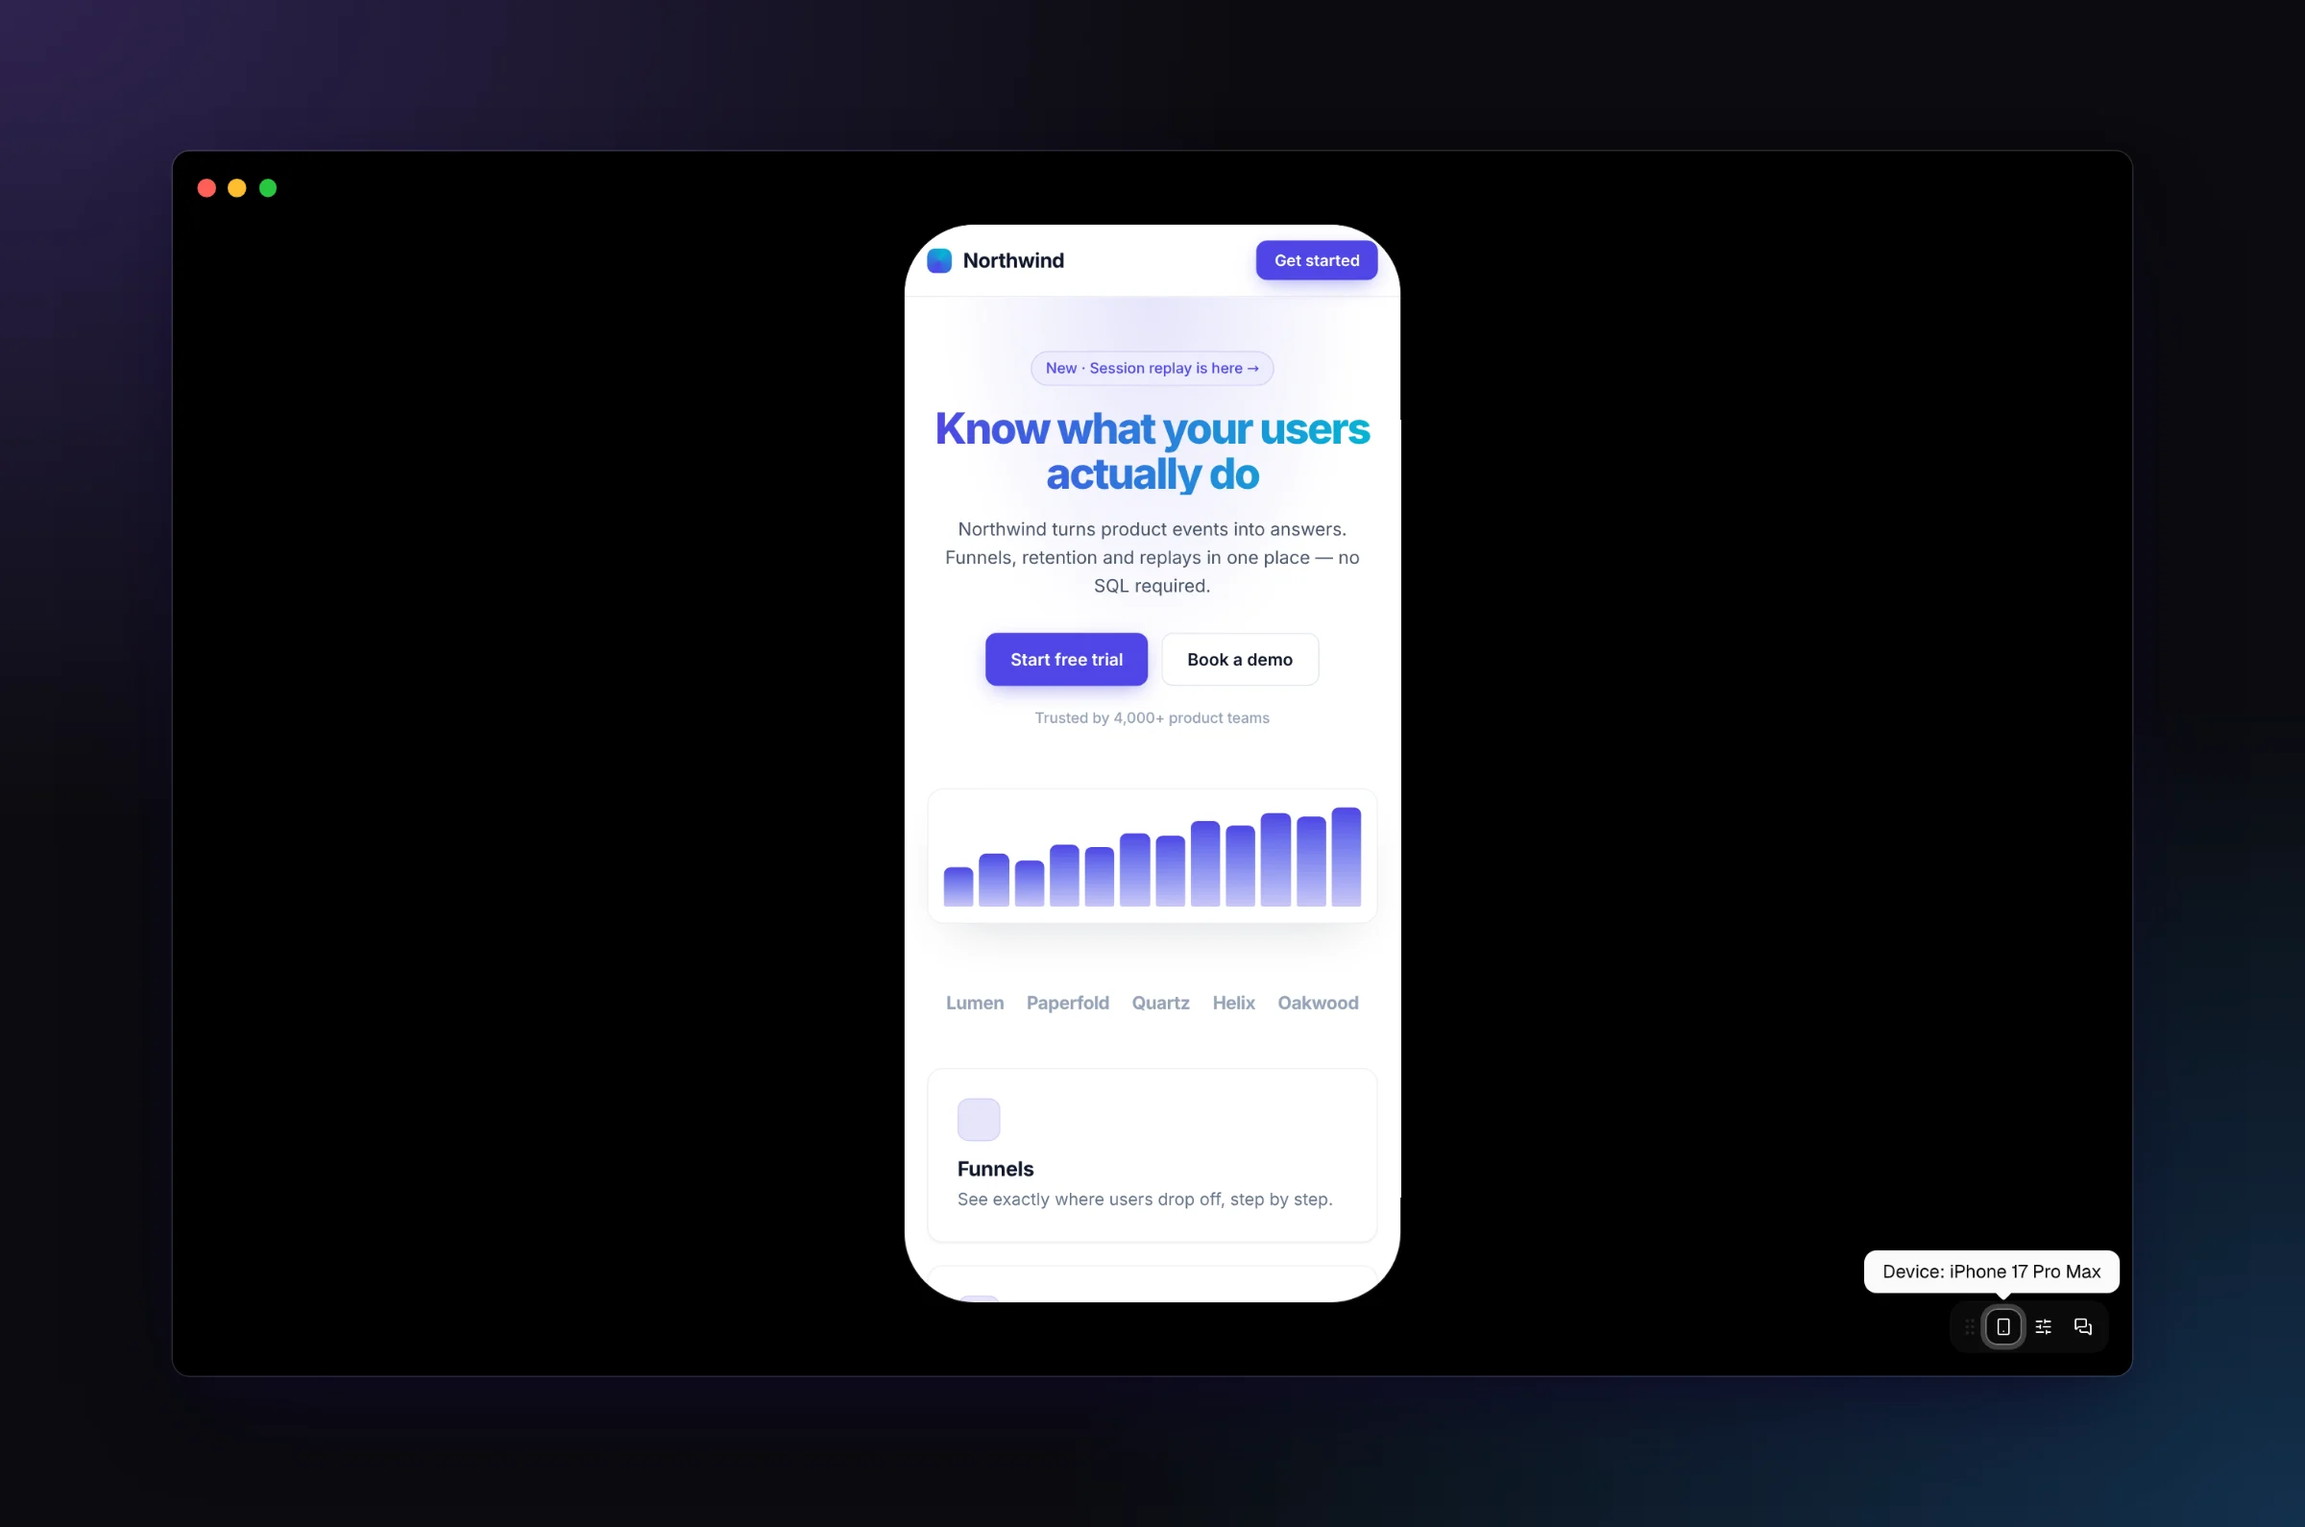
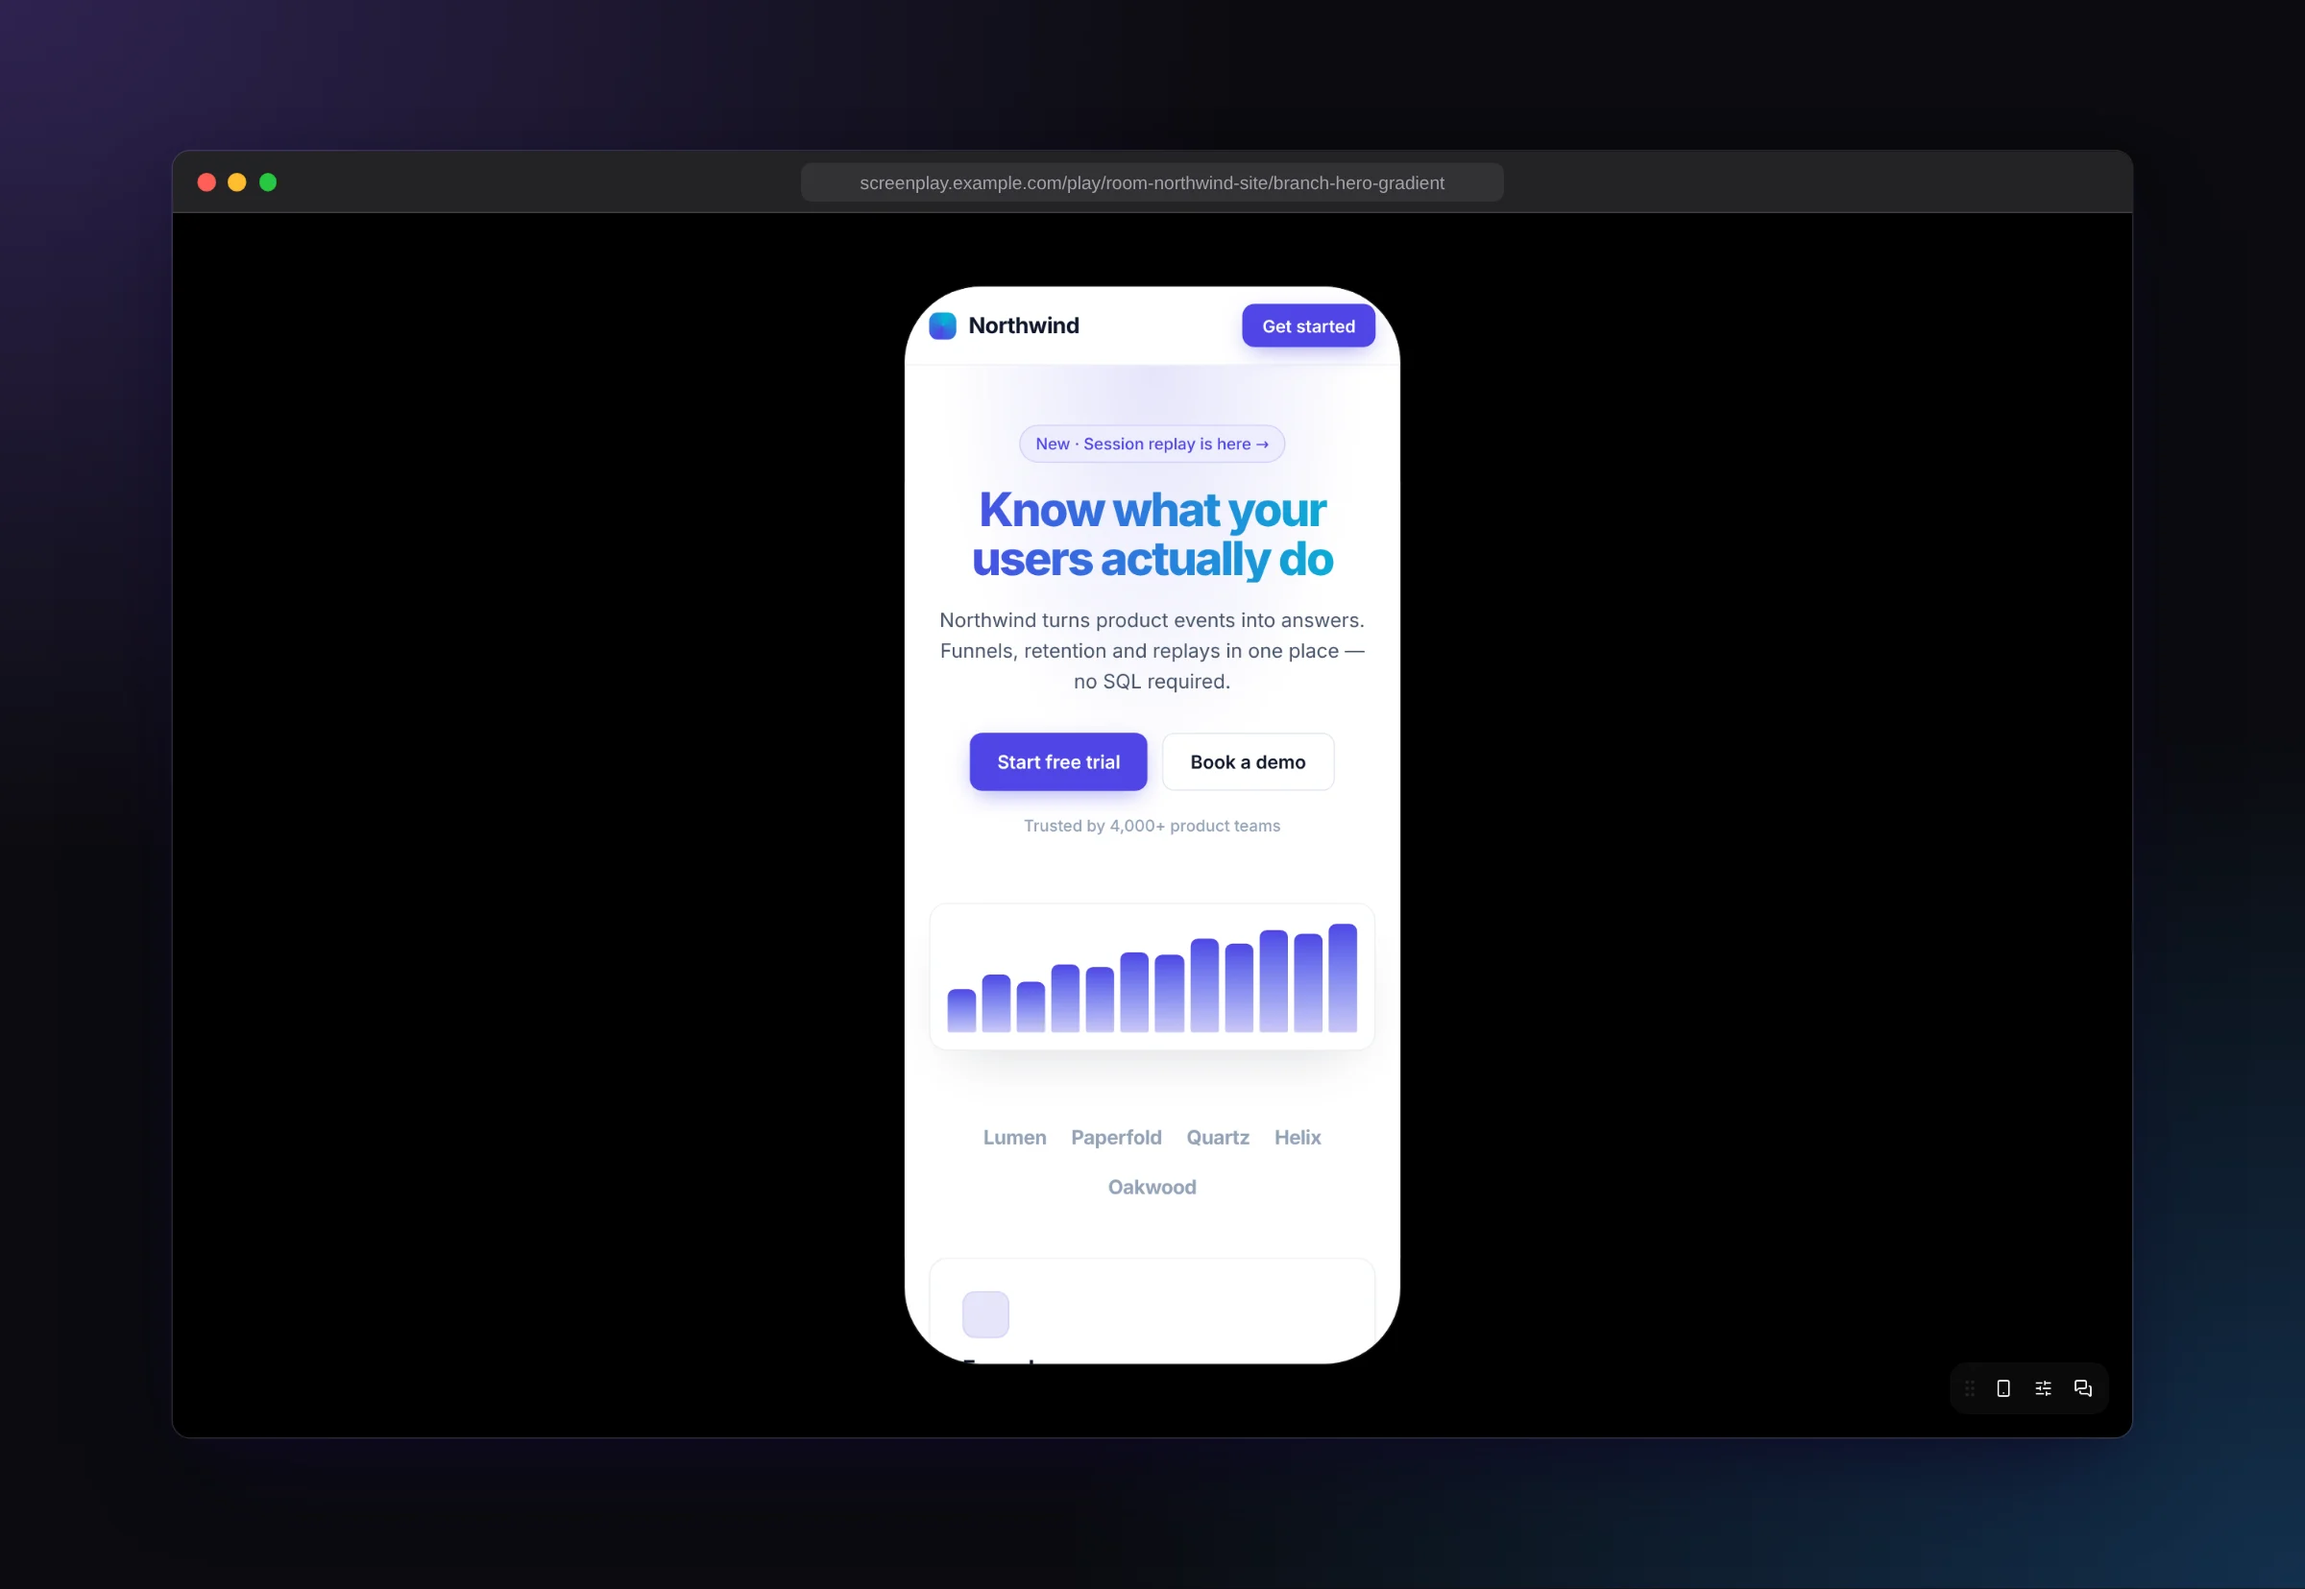
Frame the player's docs screenshots in a browser window (#930) (#939)
The prototype player opens in the user's browser, so play-desktop,
play-agent and play-mobile are now drawn in a plain browser window with
the /play/... address, instead of the app window whose traffic lights sat
on the prototype's logo. play-mobile now picks the iPhone 17 Pro (not the
Pro Max) and drops the Device tooltip left over from the menu.

Claude-Session: https://claude.ai/code/session_01BSxZDz5z7yR3C1pMiMtmid

diff --git a/apps/app/screenshots/docs/frame.ts b/apps/app/screenshots/docs/frame.ts
@@ -20,7 +20,10 @@ export const DOCS_SCREENSHOT_DIR = resolve(
  * - **Full-window** screens (`crop` unset) are drawn as a Screenplay desktop
  *   window on a light or dark gradient that matches the docs theme: the
  *   Tauri overlay title bar's traffic lights at the app's
- *   `trafficLightPosition`, rounded corners, and a soft shadow.
+ *   `trafficLightPosition`, rounded corners, and a soft shadow. A screen
+ *   with a `browser` address is drawn as a plain browser window instead (the
+ *   prototype player opens in the user's browser, not the app): a title bar
+ *   with the traffic lights and that address, and the page below it.
  * - **Detail** screens are cropped around their focus (measured from the
  *   screen's `focus` during capture, else its fixed `crop`): the focus centred
  *   with room around it, as the bare UI with no chrome, shadow or backdrop.
@@ -61,7 +64,8 @@ export async function frameScreens(
           img,
           screen.viewport ?? DOCS_VIEWPORT,
           measured[`${screen.name}.${theme}`] ?? screen.crop,
-          theme === "dark"
+          theme === "dark",
+          screen.browser
         )
         await page.setViewportSize({ width, height })
         await page.setContent(html, { waitUntil: "load" })
@@ -175,7 +179,8 @@ function framePage(
   img: string,
   viewport: { width: number; height: number },
   focus: Crop | undefined,
-  dark: boolean
+  dark: boolean,
+  browser?: string
 ): { width: number; height: number; html: string } {
   const { width: W0, height: H0 } = viewport
   const bg = dark
@@ -202,18 +207,33 @@ function framePage(
     }
   }
   const width = 1600
-  const height = Math.round(dh + 210)
+  // A browser window's title bar, in capture px, above the page.
+  const bar = browser ? BROWSER_BAR : 0
+  const height = Math.round(dh + bar * s + 210)
   // The Tauri overlay title bar: macOS traffic lights drawn over the webview
-  // at the window's `trafficLightPosition` (x 16, y 26 in the app config).
+  // at the window's `trafficLightPosition` (x 16, y 26 in the app config). A
+  // browser's sit in the middle of its own title bar.
+  const cy = browser ? bar / 2 : 24
   const light = (cx: number, color: string) =>
-    `<i style="position:absolute;left:${(cx - 6) * s}px;top:${(24 - 6) * s}px;width:${12 * s}px;height:${12 * s}px;border-radius:50%;background:${color};box-shadow:inset 0 0 0 .5px rgba(0,0,0,.15)"></i>`
+    `<i style="position:absolute;left:${(cx - 6) * s}px;top:${(cy - 6) * s}px;width:${12 * s}px;height:${12 * s}px;border-radius:50%;background:${color};box-shadow:inset 0 0 0 .5px rgba(0,0,0,.15)"></i>`
   const lights =
     light(22, "#ff5f57") + light(42, "#febc2e") + light(62, "#28c840")
-  const inner = `<div style="position:relative;width:${dw}px;height:${dh}px;overflow:hidden;border-radius:12px;box-shadow:${shadow}">
-    <img src="${img}" style="position:absolute;left:0;top:0;width:${W0 * s}px;height:${H0 * s}px">${lights}</div>`
+  const titleBar = browser
+    ? `<div style="position:absolute;left:0;top:0;width:${dw}px;height:${bar * s}px;background:${dark ? "#232326" : "#f4f4f5"};box-shadow:inset 0 -1px 0 ${border};display:flex;align-items:center;justify-content:center">
+      <div style="width:${460 * s}px;height:${26 * s}px;border-radius:${7 * s}px;background:${dark ? "rgba(255,255,255,.07)" : "rgba(0,0,0,.05)"};color:${dark ? "#a1a1aa" : "#52525b"};font:${12 * s}px/${26 * s}px -apple-system,BlinkMacSystemFont,'Inter','Segoe UI',sans-serif;text-align:center;white-space:nowrap;overflow:hidden;text-overflow:ellipsis;padding:0 ${12 * s}px;box-sizing:border-box">${escapeHtml(browser)}</div>${lights}</div>`
+    : lights
+  const inner = `<div style="position:relative;width:${dw}px;height:${dh + bar * s}px;overflow:hidden;border-radius:12px;box-shadow:${shadow}">
+    <img src="${img}" style="position:absolute;left:0;top:${bar * s}px;width:${W0 * s}px;height:${H0 * s}px">${titleBar}</div>`
   return {
     width,
     height,
     html: `<!doctype html><body style="margin:0;width:${width}px;height:${height}px;background:${bg};display:flex;align-items:center;justify-content:center">${inner}</body>`,
   }
+}
+
+/** A browser window's title bar height, in CSS px of the capture. */
+const BROWSER_BAR = 40
+
+function escapeHtml(text: string): string {
+  return text.replace(/&/g, "&amp;").replace(/</g, "&lt;").replace(/>/g, "&gt;")
 }

diff --git a/apps/app/screenshots/docs/screens.ts b/apps/app/screenshots/docs/screens.ts
@@ -36,6 +36,12 @@ export interface DocsScreen extends Screen {
    * a detail no selector pins down. Used when `focus` matches nothing.
    */
   crop?: Crop
+  /**
+   * For a full-window screen of a page that opens in the user's browser
+   * rather than the app (the prototype player): the address `./frame.ts`
+   * shows in the browser window it draws around the capture.
+   */
+  browser?: string
 }
 
 export type Crop = [x: number, y: number, width: number, height: number]
@@ -82,6 +88,8 @@ const TALL_VIEWPORT = { width: 1280, height: 1200 } as const
 const ids = DOCS_IDS
 const ROOM = `/${ids.rooms.northwind}`
 const PLAY = `/play/${ids.rooms.northwind}/${ids.branches.hero}?route=/`
+/** The player's address as the browser shows it (`openExternal` in `use-frame-actions.ts`). */
+const PLAY_ADDRESS = `screenplay.example.com/play/${ids.rooms.northwind}/${ids.branches.hero}`
 
 /**
  * Request play mode once before navigating to it: its first server render of
@@ -1111,6 +1119,7 @@ export const DOCS_SCREENS: DocsScreen[] = [
   // --- Play mode --------------------------------------------------------------
   screen({
     name: "play-desktop",
+    browser: PLAY_ADDRESS,
     description: "Play mode, desktop.",
     path: PLAY,
     beforeNavigate: warmPlay,
@@ -1152,6 +1161,7 @@ export const DOCS_SCREENS: DocsScreen[] = [
   }),
   screen({
     name: "play-agent",
+    browser: PLAY_ADDRESS,
     description: "Play mode's agent panel.",
     path: PLAY,
     beforeNavigate: warmPlay,
@@ -1173,6 +1183,7 @@ export const DOCS_SCREENS: DocsScreen[] = [
   }),
   screen({
     name: "play-mobile",
+    browser: PLAY_ADDRESS,
     description: "Play mode on an iPhone 17 Pro.",
     path: PLAY,
     beforeNavigate: warmPlay,
@@ -1181,10 +1192,13 @@ export const DOCS_SCREENS: DocsScreen[] = [
       await openHud(page, "button[aria-label^='Device']", "[role=option]")
       await page
         .locator("[role=option],[role=menuitem],[role=menuitemradio]")
-        .filter({ hasText: "iPhone 17 Pro" })
+        .filter({ hasText: /iPhone 17 Pro(?! Max)/ })
         .first()
         .click()
       await sleep(page, 3000)
+      // The closed menu hands focus back to the Device button, whose tooltip
+      // would otherwise sit over the stage.
+      await page.evaluate("document.activeElement?.blur()")
       await page.mouse.move(640, 790)
       await sleep(page, 500)
     },
